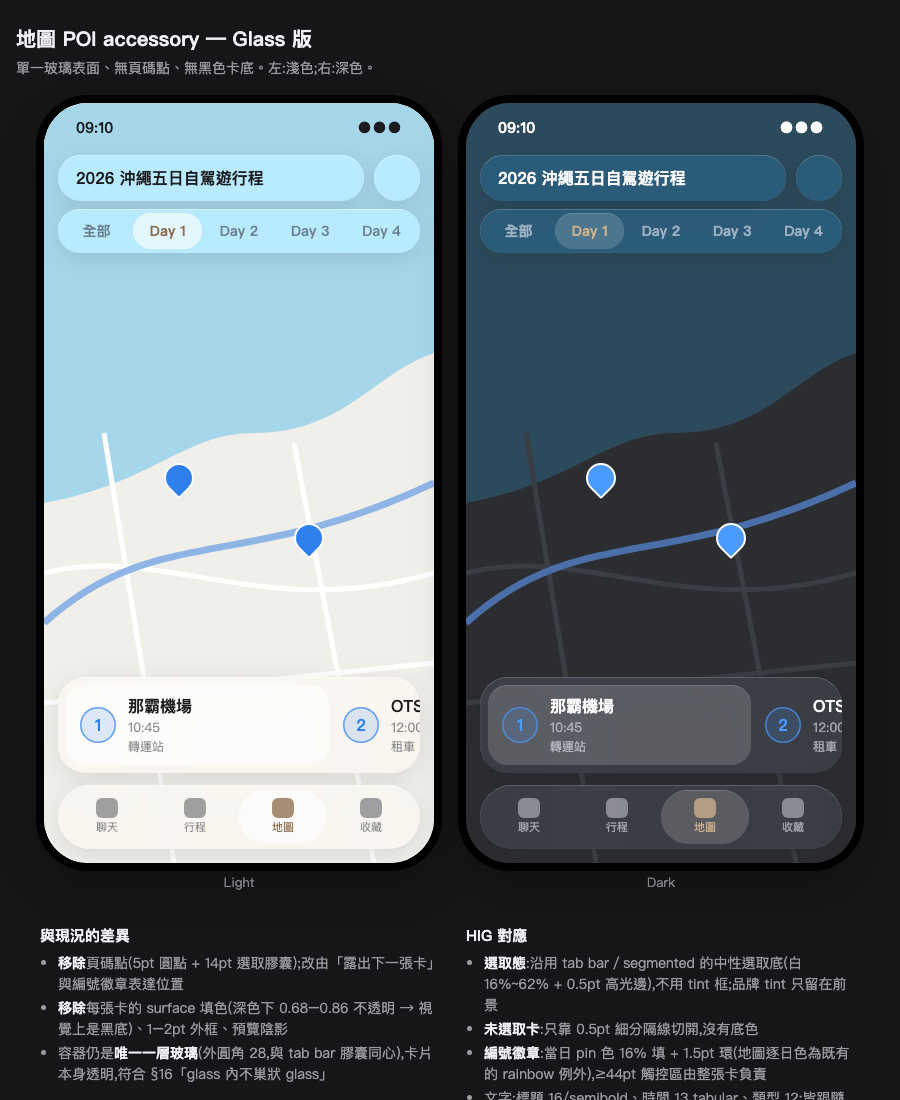
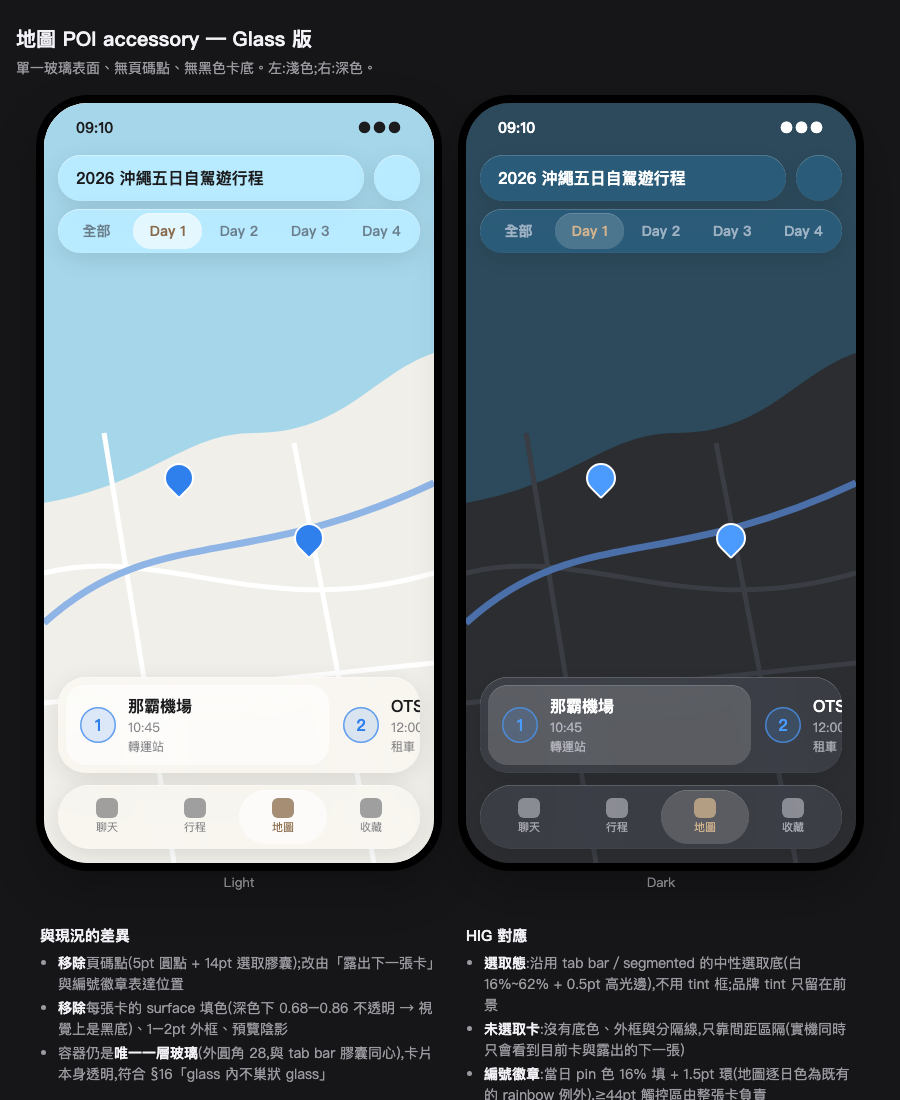
feat: POI 卡改為透明單一玻璃表面 (#460)
卡片無填色/外框/陰影,目前卡用中性選取底,編號徽章 16% 填色加 1.5pt 圓環,
accessory 圓角與 tab bar 同心。未選取卡間的分隔線在實機上不會出現(同時只見
目前卡與下一張),故不做,DESIGN §9.2 同步。

Changed region(s): [[0.5289, 0.9273, 0.9644, 1.0]]

diff --git a/lib/features/trip_detail/trip_map_screen.dart b/lib/features/trip_detail/trip_map_screen.dart
@@ -1043,13 +1043,12 @@ class _TripMapViewState extends ConsumerState<_TripMapView> {
               : category,
         ) ??
         (stop.point == null ? '尚無位置' : '未分類');
-    // accessory host 是唯一玻璃表面，內容卡只用語意填色，避免巢狀玻璃。
-    // 原生地圖走套件公開共存路徑，不表示 shader 能折射地圖圖磚。
-    final cardColor = theme.colorScheme.surface.withValues(
-      alpha: isPreview
-          ? (theme.brightness == Brightness.dark ? 0.86 : 0.90)
-          : (theme.brightness == Brightness.dark ? 0.68 : 0.74),
-    );
+    // accessory host 是唯一玻璃表面，卡片本身透明，避免巢狀玻璃（DESIGN §9.2）。
+    // 目前卡（選取或預覽）用中性選取底，與 root tab bar／Day selector 同一語彙；
+    // 品牌 tint 只上前景，不畫框。
+    final selectionColor = theme.brightness == Brightness.dark
+        ? theme.colorScheme.onSurface.withValues(alpha: 0.16)
+        : theme.colorScheme.surface.withValues(alpha: 0.62);
 
     return KeyedSubtree(
       key: ValueKey(
@@ -1069,31 +1068,11 @@ class _TripMapViewState extends ConsumerState<_TripMapView> {
           child: DecoratedBox(
             key: ValueKey('entry-card-${stop.entry.id}'),
             decoration: BoxDecoration(
-              color: cardColor,
-              borderRadius: const BorderRadius.all(Radius.circular(15)),
-              // 選取態用 tint 2pt 框（對比 >= 3:1）；原本只調 onSurface alpha，
-              // 淺色模式下與未選取卡片幾乎無差。
-              border: Border.all(
-                width: isActive ? 2 : 1,
-                color: isActive
-                    ? theme.colorScheme.primary
-                    : theme.colorScheme.onSurface.withValues(
-                        alpha: isPreview ? 0.20 : 0.10,
-                      ),
-              ),
-              boxShadow: isPreview
-                  ? [
-                      BoxShadow(
-                        color: theme.colorScheme.shadow.withValues(alpha: 0.14),
-                        blurRadius: 12,
-                        offset: const Offset(0, 4),
-                      ),
-                    ]
-                  : null,
+              color: isActive || isPreview ? selectionColor : null,
+              borderRadius: const BorderRadius.all(Radius.circular(20)),
             ),
             child: Padding(
-              // 選取框多 1pt，內縮同量讓卡片內容不位移。
-              padding: EdgeInsets.all(TpSpacing.s2 - (isActive ? 1 : 0)),
+              padding: const EdgeInsets.all(TpSpacing.s2),
               child: Row(
                 children: [
                   Container(
@@ -1101,10 +1080,11 @@ class _TripMapViewState extends ConsumerState<_TripMapView> {
                     width: TpSpacing.tapMin,
                     height: TpSpacing.tapMin,
                     decoration: BoxDecoration(
-                      color: stop.color.withValues(alpha: 0.20),
+                      color: stop.color.withValues(alpha: 0.16),
                       shape: BoxShape.circle,
                       border: Border.all(
-                        color: stop.color.withValues(alpha: 0.72),
+                        width: 1.5,
+                        color: stop.color.withValues(alpha: 0.70),
                       ),
                     ),
                     alignment: Alignment.center,

diff --git a/test/features/trip_detail/trip_map_screen_test.dart b/test/features/trip_detail/trip_map_screen_test.dart
@@ -876,35 +876,50 @@ void main() {
     expect(find.byKey(const ValueKey('active-entry-card-13')), findsOneWidget);
   });
 
-  testWidgets('選取的卡片以 tint 粗框標示，未選取卡片維持淡框', (tester) async {
-    await tester.pumpWidget(_buildScreen([_dayOne, _dayTwo]));
-    await tester.pumpAndSettle();
-    await tester.tap(find.byKey(const ValueKey('trip-map-day-2')));
-    await tester.pumpAndSettle();
-    await tester.tap(find.byKey(const ValueKey('entry-card-21')));
+  testWidgets('POI 卡片透明：只有目前卡有中性選取底，且沒有外框、陰影與 tint', (tester) async {
+    await tester.pumpWidget(_buildScreen([_dayOne]));
     await tester.pumpAndSettle();
 
-    Border borderOf(String id) =>
-        (tester
-                        .widget<DecoratedBox>(
-                          find.byKey(ValueKey('entry-card-$id')),
-                        )
-                        .decoration
-                    as BoxDecoration)
-                .border!
-            as Border;
     final scheme = Theme.of(
-      tester.element(find.byKey(const ValueKey('entry-card-21'))),
+      tester.element(find.byKey(const ValueKey('entry-card-11'))),
     ).colorScheme;
+    final cards = tester
+        .widgetList<DecoratedBox>(
+          find.byWidgetPredicate(
+            (w) =>
+                w is DecoratedBox &&
+                w.key is ValueKey<String> &&
+                RegExp(
+                  r'^entry-card-\d+$',
+                ).hasMatch((w.key! as ValueKey<String>).value),
+          ),
+        )
+        .map((w) => w.decoration as BoxDecoration)
+        .toList();
 
-    final active = borderOf('21');
-    expect(active.top.color, scheme.primary);
-    expect(active.top.width, greaterThanOrEqualTo(2));
-    // 對照：未選取卡片不使用 tint。
-    final inactive = find.byKey(const ValueKey('entry-card-22'));
-    if (inactive.evaluate().isNotEmpty) {
-      expect(borderOf('22').top.color, isNot(scheme.primary));
+    // 至少露出下一張卡，才有「未選取」可對照。
+    expect(cards.length, greaterThanOrEqualTo(2));
+    for (final d in cards) {
+      expect(d.border, isNull, reason: '不畫外框（含 tint 選取框）');
+      expect(d.boxShadow, isNull, reason: '不畫陰影');
+      expect(d.color, isNot(scheme.primary));
     }
+    expect(cards.where((d) => d.color != null), hasLength(1));
+  });
+
+  testWidgets('編號徽章用當日 pin 色 16% 填色加 1.5pt 圓環', (tester) async {
+    await tester.pumpWidget(_buildScreen([_dayOne]));
+    await tester.pumpAndSettle();
+
+    final badge =
+        tester
+                .widget<Container>(find.byKey(const ValueKey('poi-number-11')))
+                .decoration!
+            as BoxDecoration;
+    final border = badge.border! as Border;
+    expect(border.top.width, 1.5);
+    expect(badge.color!.a, closeTo(0.16, 0.01));
+    expect(badge.shape, BoxShape.circle);
   });
 
   testWidgets('Google POI 關閉後還原 Day、卡片索引與 marker 聚焦', (tester) async {

diff --git a/docs/design/poi-accessory-glass.html b/docs/design/poi-accessory-glass.html
@@ -49,10 +49,6 @@ figcaption{color:var(--mut);font-size:13px}
 .track{position:absolute;inset:0;display:flex;align-items:center;gap:0;padding:8px}
 .card{flex:0 0 76%;height:80px;border-radius:20px;display:flex;align-items:center;gap:12px;padding:0 14px;position:relative}
 .card.active{background:var(--sel);box-shadow:inset 0 0.5px 0 var(--sel-edge)}
-/* 非選取卡之間只用細分隔線,不再各自有底色/外框 */
-.card:not(.active)::before{content:"";position:absolute;left:-1px;top:22px;bottom:22px;width:.5px;background:var(--div)}
-.card.active + .card::before{display:none}
-.card.active::before{display:none}
 .num{flex:0 0 36px;height:36px;border-radius:18px;display:grid;place-items:center;font-weight:700;font-size:16px;
   color:var(--c);background:color-mix(in srgb,var(--c) 16%,transparent);
   box-shadow:inset 0 0 0 1.5px color-mix(in srgb,var(--c) 70%,transparent)}
@@ -150,7 +146,7 @@ figcaption{color:var(--mut);font-size:13px}
 </ul></div>
 <div><h2>HIG 對應</h2><ul>
 <li><b>選取態</b>:沿用 tab bar／segmented 的中性選取底(白 16%~62% + 0.5pt 高光邊),不用 tint 框;品牌 tint 只留在前景</li>
-<li><b>未選取卡</b>:只靠 0.5pt 細分隔線切開,沒有底色</li>
+<li><b>未選取卡</b>:沒有底色、外框與分隔線,只靠間距區隔(實機同時只會看到目前卡與露出的下一張)</li>
 <li><b>編號徽章</b>:當日 pin 色 16% 填 + 1.5pt 環(地圖逐日色為既有的 rainbow 例外),≥44pt 觸控區由整張卡負責</li>
 <li>文字:標題 16/semibold、時間 13 tabular、類型 12;皆跟隨 Dynamic Type,卡高隨之增加</li>
 <li>內容可讀性:深色玻璃白 8% + blur 22,淺色白 42%;提高對比／降低透明度時退回 <code>surfaceContainerHigh</code> 不透明底</li>

diff --git a/lib/ui/tp_bottom_accessory.dart b/lib/ui/tp_bottom_accessory.dart
@@ -31,7 +31,8 @@ class TpBottomAccessory extends StatelessWidget {
         height: accessoryHeight,
         child: TpGlassSurface(
           platformViewBackdrop: TpMediaBackdropScope.of(context),
-          borderRadius: const BorderRadius.all(Radius.circular(20)),
+          // 與 root tab bar 膠囊同心。
+          borderRadius: const BorderRadius.all(Radius.circular(TpSpacing.s7)),
           child: child,
         ),
       ),

diff --git a/DESIGN.md b/DESIGN.md
@@ -192,7 +192,7 @@ Apple 建議 iPhone segmented control 約不超過五項；Tripline 為了長行
 - **Tripline 決策**：卡片列水平滑動，不循環、不製造假資料，並露出下一張卡作為滑動提示。
 - **Tripline 決策**：行程 POI accessory 沒有垂直拖曳、detent 或 grabber。
 - **Tripline 決策**：行程 POI accessory 只有外層**單一玻璃表面**（圓角與 root tab bar 同心）；卡片本身透明，不填色、不畫外框與陰影，避免玻璃內再巢狀實心卡（§16）。設計稿見 [poi-accessory-glass](docs/design/poi-accessory-glass.html)（[預覽圖](docs/design/poi-accessory-glass.png)）。
-- **Tripline 決策**：目前選取的卡使用與 root tab bar、Day selector 相同的中性選取底（品牌 tint 只上前景）；未選取的卡之間只用 0.5pt 細分隔線，選取卡兩側不畫分隔線。
+- **Tripline 決策**：目前選取的卡使用與 root tab bar、Day selector 相同的中性選取底（品牌 tint 只上前景）；未選取的卡不畫底色、外框或分隔線，只靠間距區隔（同時最多看到目前卡與露出的下一張，分隔線不會有出現的位置）。
 - **Tripline 決策**：不顯示頁碼點，也不顯示 `N / M` 計數；位置資訊由「露出下一張卡」、編號徽章與 semantics（第 N 個，共 M 個）承擔。編號徽章為當日 pin 色 16% 填色加 1.5pt 圓環（地圖逐日色是既有 rainbow 例外）。
 - **Tripline 決策**：選取外部 POI 時，以外部 POI compact card 暫時取代行程 POI 列；關閉後恢復原本 Day、卡片位置與 marker 狀態。
 - **HIG 必須**：卡片需顯示名稱、時間與本地化類型；缺位置時明確顯示「尚無位置」。
